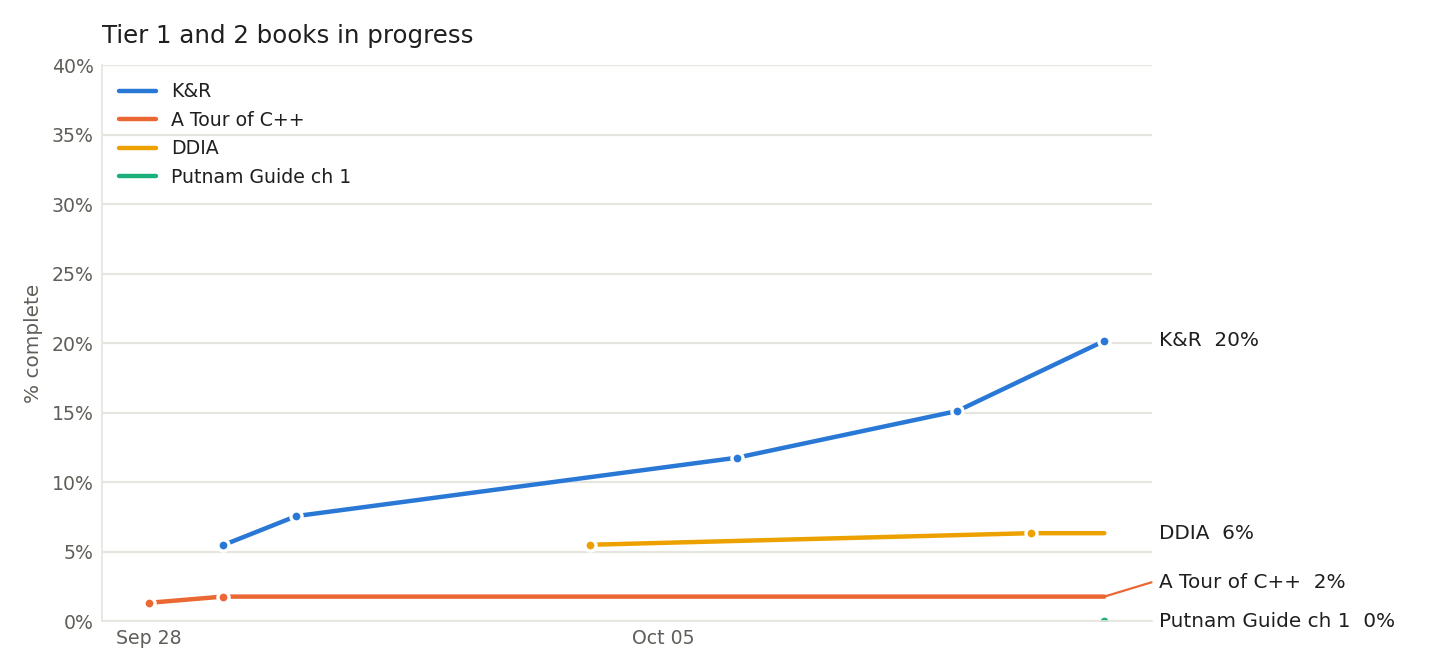
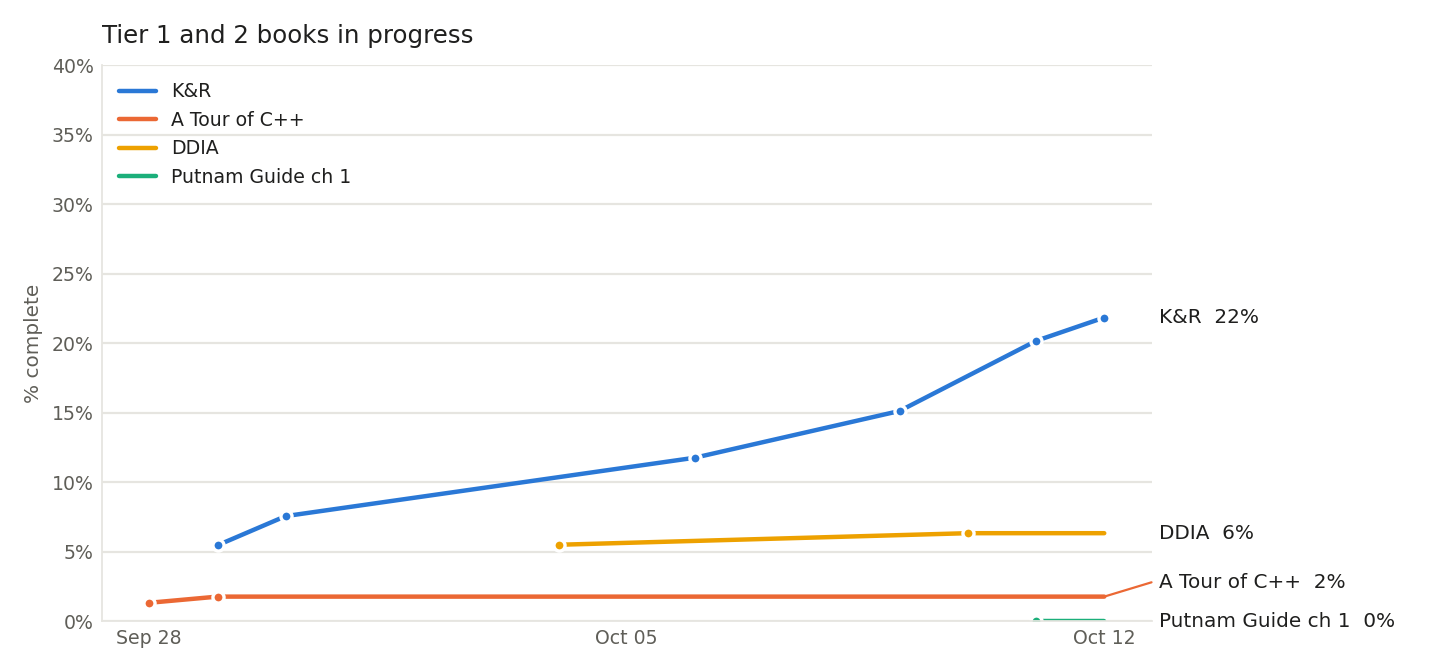
Finish K&R ch 2, 52 pages read

diff --git a/tracks/quant.md b/tracks/quant.md
@@ -8,9 +8,8 @@
   memmove over contiguous memory that runs at many GB/s. For a few hundred elements it is often faster than a skip list's
   pointer chasing, allocations, and random-level logic. Big-O hides constant factors and cache behavior. Read K&R for the
   memory model, pointers, and arrays; the cache-locality half of the lesson belongs to the low-latency book in the career track.
-  Log: 2026-09-29 started, read to page 13. 2026-09-30 to page 18. 2026-10-06 to page 28. 2026-10-09 to page 36, finished chapter 1. 2026-10-11 to page 41 (through 2.6), then read 2.8 through 2.12 with 2.7 skipped. Chapter 2 done except 2.7. Currently on page 52
-  of 238, chapter 3 Control Flow next. 48 pages read (18%).
-  TODO: backfill 2.7 Type Conversions (pages 41 to 44), not yet read.
+  Log: 2026-09-29 started, read to page 13. 2026-09-30 to page 18. 2026-10-06 to page 28. 2026-10-09 to page 36, finished chapter 1. 2026-10-11 to page 41 (through 2.6), then read 2.8 through 2.12 with 2.7 skipped. 2026-10-12 backfilled 2.7, chapter 2 done. Currently on
+  page 52 of 238 (22%), chapter 3 Control Flow next.
 - [~] **A Tour of C++** by Bjarne Stroustrup (Tier 1)
   Fast, authoritative overview of modern C++. Second priority overall, after K&R. Also pays off directly in competitive programming.
   Plan (started 2026-09-28): one pass, no re-reading. Chapters 1 to 8 (core language) at one chapter per sitting with a

diff --git a/README.md b/README.md
@@ -15,7 +15,7 @@ Personal reading list across three tracks. Each track lives in its own file unde
 <!-- progress:start -->
 | Book | Progress | | Unit |
 |---|---|---|---|
-| K&R | `████░░░░░░░░░░░░░░░░` | 20% | 48 of 238 pages |
+| K&R | `████░░░░░░░░░░░░░░░░` | 22% | 52 of 238 pages |
 | A Tour of C++ | `░░░░░░░░░░░░░░░░░░░░` | 2% | 4 of 226 pages |
 | DDIA | `█░░░░░░░░░░░░░░░░░░░` | 6% | 38 of 600 pages |
 | Putnam Guide ch 1 | `░░░░░░░░░░░░░░░░░░░░` | 0% | 0 of 72 items |
